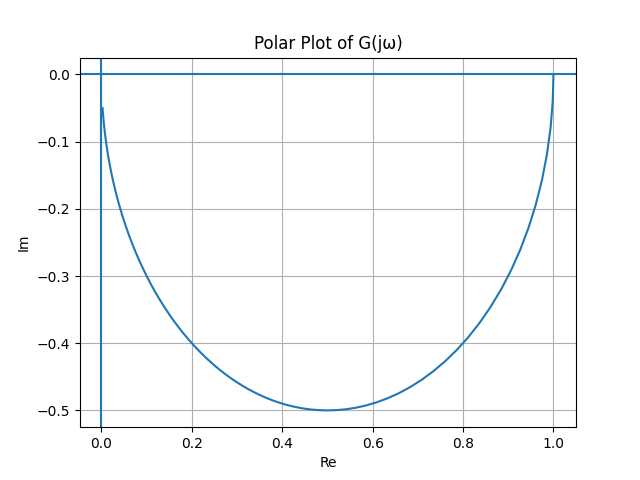
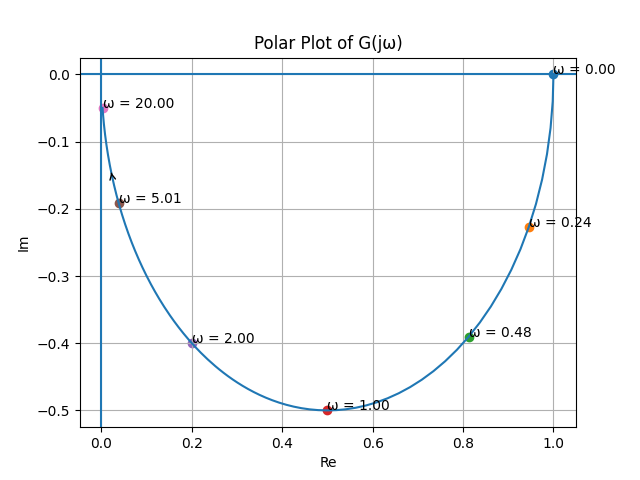
Improved on the polar plot function by adding the ability to plot frequencies on the polar plot based on for now a fixed set of label frequencies.

diff --git a/python/plotting/plot_polar_response.py b/python/plotting/plot_polar_response.py
@@ -2,6 +2,7 @@ import csv
 import matplotlib.pyplot as plt
 
 def read_frequency_response(filename):
+  frequencies = []
   real_values = []
   imaginary_values = []
 
@@ -9,15 +10,69 @@ def read_frequency_response(filename):
     reader = csv.DictReader(file)
 
     for row in reader:
+      frequencies.append(float(row["frequency"]))
       real_values.append(float(row["real"]))
       imaginary_values.append(float(row["imaginary"]))
 
-  return real_values, imaginary_values
+  return frequencies, real_values, imaginary_values
 
-def plot_polar_response(real_values, imaginary_values):
+def plot_polar_response(frequencies, real_values, imaginary_values):
   plt.figure()
 
   plt.plot(real_values, imaginary_values)
+
+  arrow_index = len(real_values) // 3
+
+  plt.annotate(
+    "",
+    xy=(
+      real_values[arrow_index + 1],
+      imaginary_values[arrow_index + 1]
+    ),
+    xytext=(
+      real_values[arrow_index],
+      imaginary_values[arrow_index]
+    ),
+    arrowprops=dict(arrowstyle="->")
+  )
+
+  # Frequencies meant to be label on the polar plot
+  label_frequencies = [
+    0.0,
+    0.25,
+    0.5,
+    1.0,
+    2.0,
+    5.0,
+    20.0
+  ]
+
+  # Find the closest frequency sample for each requested label
+  for target_frequency in label_frequencies:
+    closest_index = 0
+    smallest_difference = abs(frequencies[0] - target_frequency)
+
+    for i in range(1, len(frequencies)):
+      current_difference = abs(frequencies[i] - target_frequency)
+
+      if current_difference < smallest_difference:
+        smallest_difference = current_difference
+        closest_index = i
+
+    # Mark the selected frequency on the plot
+    plt.scatter(
+      real_values[closest_index],
+      imaginary_values[closest_index]
+    )
+
+    # Label the selected frequency
+    plt.annotate(
+      f"ω = {frequencies[closest_index]:.2f}",
+      (
+        real_values[closest_index],
+        imaginary_values[closest_index]
+      ) 
+    )
 
   plt.xlabel("Re")
   plt.ylabel("Im")
@@ -33,8 +88,8 @@ def plot_polar_response(real_values, imaginary_values):
   plt.show()
 
 def main():
-  real_values, imaginary_values = read_frequency_response("output/frequency_response.csv")
-  plot_polar_response(real_values, imaginary_values)
+  frequencies, real_values, imaginary_values = read_frequency_response("output/frequency_response.csv")
+  plot_polar_response(frequencies, real_values, imaginary_values)
 
 if __name__ == "__main__":
   main()
